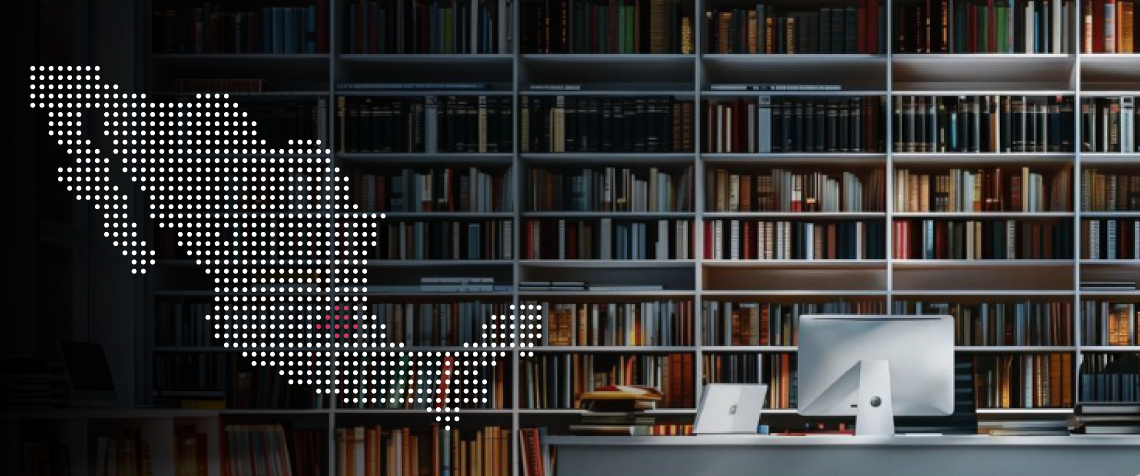
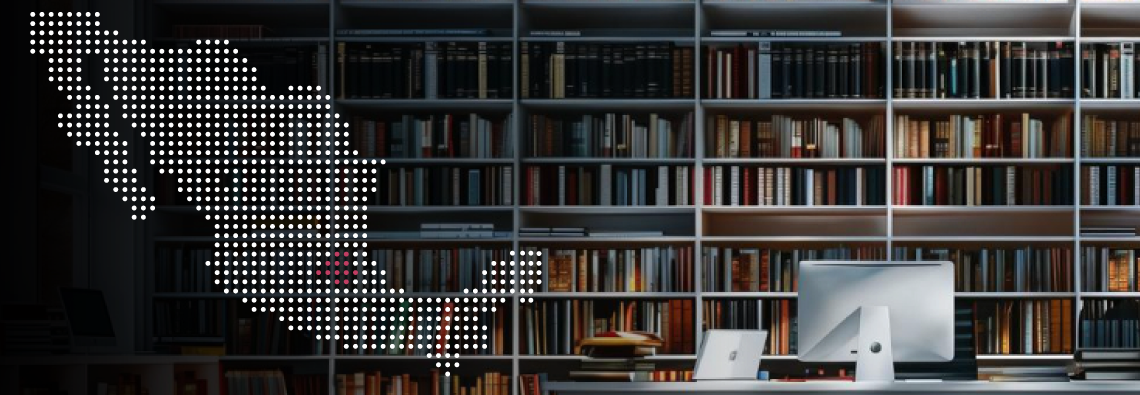
update

diff --git a/pruebas/src/components/CambiarContrasena/CambioContrasena.js b/pruebas/src/components/CambiarContrasena/CambioContrasena.js
@@ -1,0 +1,117 @@
+import React, { useState } from 'react';
+import axios from 'axios';
+import Header from '../assets/Header';
+import Footer from '../assets/Footer';
+import { BASE_URL } from '../config/config';
+
+const ChangePassword = () => {
+    const [email, setEmail] = useState('');
+    const [currentPassword, setCurrentPassword] = useState('');
+    const [newPassword, setNewPassword] = useState('');
+    const [confirmPassword, setConfirmPassword] = useState('');
+    const [step, setStep] = useState(1); // 1 = Verificar Correo, 2 = Cambiar Contraseña
+    const [error, setError] = useState('');
+    const [success, setSuccess] = useState('');
+
+    const handleEmailSubmit = async (e) => {
+        e.preventDefault();
+        setError('');
+        setSuccess('');
+        try {
+            // Llama al servicio para verificar si el correo existe
+            const response = await axios.post(`${BASE_URL}/verificarcorreo`, { email });
+            if (response.data.exists) {
+                setStep(2); // Cambiar a la segunda etapa si el correo existe
+            } else {
+                setError('No se encontró ninguna cuenta con ese correo.');
+            }
+        } catch (err) {
+            setError('Error al verificar el correo.');
+        }
+    };
+
+    const handleChangePasswordSubmit = async (e) => {
+        e.preventDefault();
+        setError('');
+        setSuccess('');
+        if (newPassword !== confirmPassword) {
+            setError('Las contraseñas no coinciden.');
+            return;
+        }
+
+        try {
+            // Llama al servicio para cambiar la contraseña
+            const response = await axios.post(`${BASE_URL}/cambiocontrasena`, {
+                email,
+                currentPassword,
+                newPassword
+            });
+            if (response.status === 200) {
+                setSuccess('Contraseña cambiada con éxito.');
+                // Aquí podrías redirigir o reiniciar el formulario
+                
+            } else {
+                setError('Error al cambiar la contraseña. Asegúrate de que la contraseña actual sea correcta.');
+            }
+        } catch (err) {
+            setError('Error al cambiar la contraseña.');
+        }
+    };
+
+    return (
+        <div>
+            <Header/>
+            {error && <p style={{ color: 'red' }}>{error}</p>}
+            {success && <p style={{ color: 'green' }}>{success}</p>}
+
+            {step === 1 ? (
+                <form onSubmit={handleEmailSubmit}>
+                    <label>
+                        Ingresa tu correo:
+                        <input
+                            type="email"
+                            value={email}
+                            onChange={(e) => setEmail(e.target.value)}
+                            required
+                        />
+                    </label>
+                    <button type="submit">Verificar Correo</button>
+                </form>
+            ) : (
+                <form onSubmit={handleChangePasswordSubmit}>
+                    <label>
+                        Contraseña actual:
+                        <input
+                            type="password"
+                            value={currentPassword}
+                            onChange={(e) => setCurrentPassword(e.target.value)}
+                            required
+                        />
+                    </label>
+                    <label>
+                        Nueva contraseña:
+                        <input
+                            type="password"
+                            value={newPassword}
+                            onChange={(e) => setNewPassword(e.target.value)}
+                            required
+                        />
+                    </label>
+                    <label>
+                        Confirmar nueva contraseña:
+                        <input
+                            type="password"
+                            value={confirmPassword}
+                            onChange={(e) => setConfirmPassword(e.target.value)}
+                            required
+                        />
+                    </label>
+                    <button type="submit">Cambiar Contraseña</button>
+                </form>
+            )}
+            <Footer/>
+        </div>
+    );
+};
+
+export default ChangePassword;

diff --git a/pruebas/src/components/PaginaInicio/PaginaInicio.css b/pruebas/src/components/PaginaInicio/PaginaInicio.css
@@ -182,19 +182,19 @@ h3 {
     margin-right: 0px;
 }
 
-/* Ejemplo en PaginaInicio.css */
 #banner {
-    background-image: url('/public/imagenes/banner.jpg');
-    background-size: cover;
-    background-position: center;
-    color: #ffffff;
-    padding: 300px 20px; /* Reduce este valor para hacer el banner más pequeño */
-    text-align: center;
-    position: relative;
-    animation: fadeIn 1.5s ease-in-out;
-    margin-bottom: 40px; /* Mantén esta línea para separar el banner del contenido siguiente */
+    width: 100%; 
+    position: relative; 
+    overflow: hidden; 
+    margin-bottom: 25px;
 }
-
+.banner-image {
+    width: 100vw; /* 100% del ancho del viewport */
+    max-width: 100%; /* Asegura que no se expanda más allá del contenedor padre */
+    height: auto;
+    display: block;
+}
+/* Overlay oscuro opcional */
 #banner::before {
     content: "";
     position: absolute;
@@ -202,34 +202,17 @@ h3 {
     left: 0;
     width: 100%;
     height: 100%;
-    background: rgba(0, 0, 0, 0); /* Aumenta el valor de opacidad a 0.5 o más para oscurecer */
-    z-index: 1;
+    background: rgba(0, 0, 0, 0); 
+    z-index: 1; 
+}
+/* Media Queries para pantallas pequeñas */
+@media (max-width: 480px) {
+    .banner-image {
+        width: 100%;
+        height: auto;
+    }
 }
 
-#banner h1, #banner h2, #banner p {
-    position: relative; /* Posición relativa para colocar sobre el overlay */
-    z-index: 2; /* Colocar texto sobre el overlay */
-    opacity: 0; /* Inicialmente invisible */
-    animation: fadeInText 1s ease-in-out forwards; /* Animación de desvanecimiento más rápida */
-}
-
-#banner h1 {
-    font-size: 3rem; /* Tamaño de fuente grande para el título principal */
-    font-weight: bold; /* Negrita para el título principal */
-    margin-bottom: 20px; /* Margen inferior */
-    animation-delay: 0.5s; /* Retardo para la animación del título principal reducido */
-}
-
-#banner h2 {
-    font-size: 2rem; /* Tamaño de fuente para el subtítulo */
-    margin-bottom: 40px; /* Margen inferior */
-    animation-delay: 0.8s; /* Retardo para la animación del subtítulo reducido */
-}
-
-#banner p {
-    font-size: 1.5rem; /* Tamaño de fuente para el párrafo */
-    animation-delay: 1s; /* Retardo para la animación del párrafo reducido */
-}
 
 /* Animations */
 @keyframes fadeIn {

diff --git a/pruebas/src/components/PaginaInicio/PaginaInicio.js b/pruebas/src/components/PaginaInicio/PaginaInicio.js
@@ -31,14 +31,11 @@ function PaginaInicio() {
       <Header/>
 
       {/* Banner */}
-      <section id="banner" className="relative text-white text-center py-16 mb-12" style={{ backgroundImage: "url('/imagenes/Principal.png')" }}>
-        <div className="absolute inset-0 "></div>
-        <div className="relative z-10">
-          <h1 className="text-5xl font-bold mb-4"> </h1>
-          <h2 className="text-3xl mb-6"> </h2>
-          <p className="text-lg"> </p>
-        </div>
-      </section>
+      <section id="banner">
+        <img className="banner-image" src="/imagenes/Principal.png" alt="Banner" />
+    </section>
+
+
 
       <div className="section-container">
                 <h3 className="section-title">Instituciones participantes del proyecto</h3>

diff --git a/pruebas/src/App.js b/pruebas/src/App.js
@@ -13,6 +13,7 @@ import Fisica from './components/Fisica/Fisica';
 import MenuAcceso from './components/MenuAcceso/MenuAcceso';
 import Diagnostico from './components/Diagnosticos/DiagnosticosPage';
 import Dataset from './components/dataset/datasetDownload'
+import ChangePassword from './components/CambiarContrasena/CambioContrasena';
 
 
 function App() {
@@ -32,7 +33,7 @@ function App() {
       <Route path="/menu" element={<MenuAcceso />} />
       <Route path="/diagnosticos" element={<Diagnostico />} />
       <Route path="/dataset" element={<Dataset />} />
-      
+      <Route path="/cambiarcontrasena" element={<ChangePassword/>} />   
     </Routes>
   </Router>
   );

diff --git a/pruebas/src/components/config/config.js b/pruebas/src/components/config/config.js
@@ -1,2 +1,2 @@
 // config.js
-export const BASE_URL = 'http://148.204.125.121:80';
+export const BASE_URL = 'http://10.0.3.214:8080';
